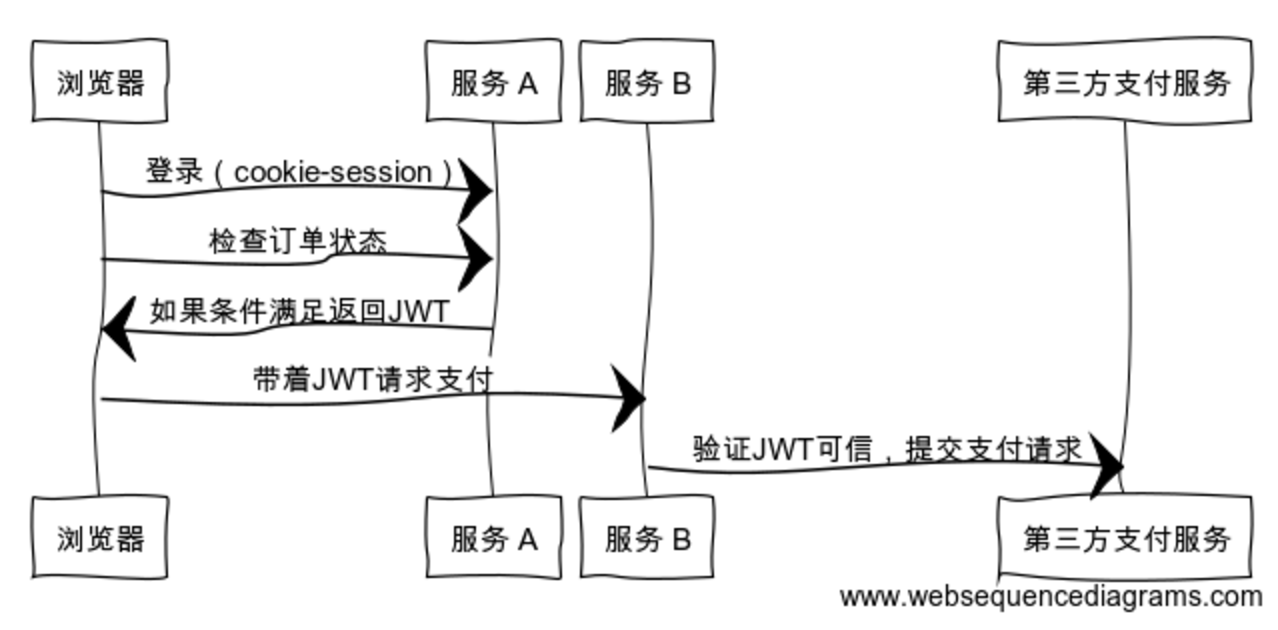
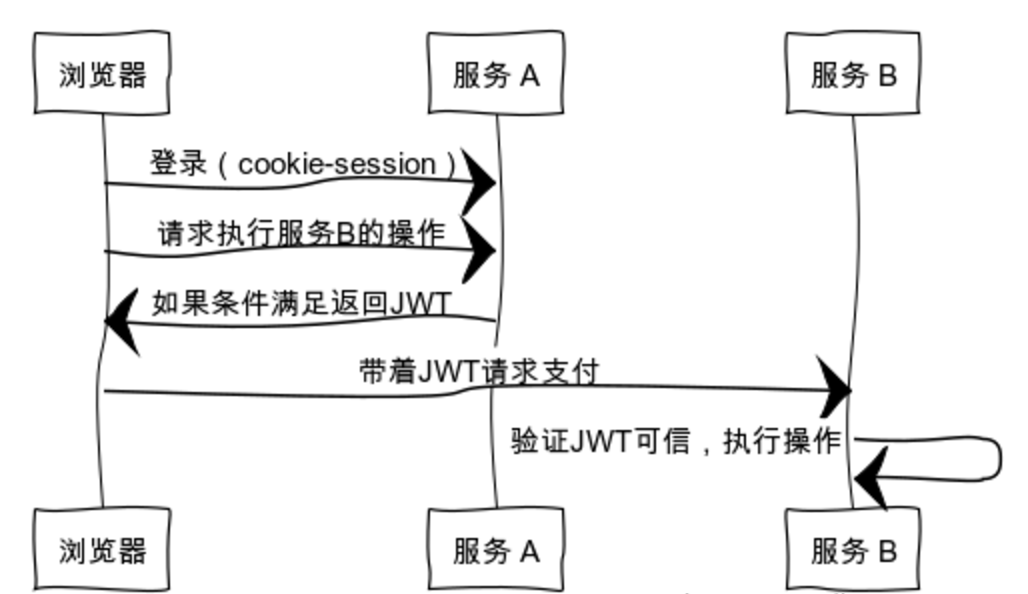
refactor JWT

Changed region(s): [[0.0, 0.0303, 0.9961, 1.0]]

diff --git a/_posts/2017-06-10-stoping-using-jwt-for-sessions.md b/_posts/2017-06-10-stoping-using-jwt-for-sessions.md
@@ -71,7 +71,7 @@ Authorization: Bearer eyJhbGci*...<snip>...*yu5CSpyHI
 
 1. **该方案更易于水平扩展**
 
-确实如此，在cookie-session方案中，cookie内仅包含一个session标识符，而诸如用户信息、授权列表等都保存在服务端的session中。如果把session中的认证信息都保存在JWT中，在服务端就没有session存在的必要了。当服务端水平扩展的时候，就不用处理session复制（cookie Replication）/session黏连（Sticky cookie）或是引入外部session存储了。但实际上外部session存储方案已经非常成熟了（比如Redis），在一些Framework的帮助下（比如[spring-cookie](HTTP://docs.spring.io/spring-cookie/docs/current/reference/html5/guides/hazelcast-spring.html)和[hazelcast](https://hazelcast.com/)），session复制也并没有想象中的麻烦。所以除非你的应用访问量非常非常非常(此处省略N个非常）大，使用cookie-session配合外部session存储完全够用了。
+在cookie-session方案中，cookie内仅包含一个session标识符，而诸如用户信息、授权列表等都保存在服务端的session中。如果把session中的认证信息都保存在JWT中，在服务端就没有session存在的必要了。当服务端水平扩展的时候，就不用处理session复制（session replication）/ session黏连（sticky session）或是引入外部session存储了。从这个角度来说，这个优点确实存在，但实际上外部session存储方案已经非常成熟了（比如Redis），在一些Framework的帮助下（比如[spring-session](HTTP://docs.spring.io/spring-session/docs/current/reference/html5/guides/hazelcast-spring.html)和[hazelcast](https://hazelcast.com/)），session复制也并没有想象中的麻烦。所以除非你的应用访问量非常非常非常(此处省略N个非常）大，使用cookie-session配合外部session存储完全够用了。
 
 2. **该方案可防护CSRF攻击**
 
@@ -101,7 +101,7 @@ amount=100.00&routingNumber=1234&account=9876
 
 你被“点击就送”吸引了，当你点了提交按钮时你已经向攻击者的账号转了100元。 现实中的攻击可能更隐蔽，恶意网站的页面可能使用Javascript自动完成提交。尽管恶意网站没有办法盗取你的session cookie（从而假冒你的身份），但恶意网站向bank.example.com发起请求时，你的cookie会被自动发送过去。
 
-因此，有些人认为前端代码将JWT通过HTTP header发送给服务端（而不是通过cookie自动发送）可以有效防护CSRF。在这种方案中，服务端代码在完成认证后，会在HTTP response的header中返回JWT，前端代码将该JWT存放到Local Storage里待用，或是服务端直接在cookie中保存HttpOnly=false（否则前端Javascript代码无权从cookie中获取数据）的JWT。在向服务端发起请求时，用Javascript取出JWT，再通过header发送回服务端通过认证。由于恶意网站的代码无法获取bank.example.com的cookie/Local Storage中的JWT，这种方式确实能防护CSRF，但将JWT保存在cookie/Local Storage中可能会给另一种攻击可乘之机，我们一会详细讨论它：跨站脚本攻击——XSS。
+因此，有些人认为前端代码将JWT通过HTTP header发送给服务端（而不是通过cookie自动发送）可以有效防护CSRF。在这种方案中，服务端代码在完成认证后，会在HTTP response的header中返回JWT，前端代码将该JWT存放到Local Storage里待用，或是服务端直接在cookie中保存HttpOnly=false的JWT。在向服务端发起请求时，用Javascript取出JWT（否则前端Javascript代码无权从cookie中获取数据），再通过header发送回服务端通过认证。由于恶意网站的代码无法获取bank.example.com的cookie/Local Storage中的JWT，这种方式确实能防护CSRF，但将JWT保存在cookie/Local Storage中可能会给另一种攻击可乘之机，我们一会详细讨论它：跨站脚本攻击——XSS。
 
 3. **该方案更安全**
 
@@ -136,15 +136,28 @@ c) 考虑到cookie的空间限制（大约4k左右），在JWT中尽可能只放
 
 ### 那究竟JWT可以用来做什么
 
-事实上，JWT更适合一次性操作的认证:
+
+我的同事Weinan Li的做过一个形象的解释：
+
+> JWT（其实还有SAML）最适合的应用场景就是“开票”，或者”签字“。
+>
+> 在有纸化办公时代，多部门，多组织之间的协同工作往往会需要拿着A部门领导的“签字”或者“盖章”去B部门“使用”或者“访问”对应的资源，其实这种“领导签字／盖章”就是JWT，都是一种由具有一定权力的实体“签发”并“授权”的“票据”。一般的，这种票据具有可验证性（领导签名／盖章可以被验证，且难于模仿），不可篡改性（涂改过的文件不被接受，除非在涂改处再次签字确认）；并且这种票据一般都是“一次性”使用的，在访问到对应的资源后，该票据一般会被资源持有方收回留底，用于后续的审计，追溯等用途。
+
+> 举两个栗子。
+> 1. 员工李雷需要请假一天，于是填写请假申请单，李雷再获得其主管部门领导签字后，将请假单交给HR部门韩梅梅，韩梅梅确认领导签字无误后，将请假单收回，并在公司考勤表中做相应记录。
+> 2. 员工李雷和韩梅梅因工外出需要使用公司汽车一天，于是填写用车申请单，签字后李雷将申请单交给车队司机老王，乘坐老王驾驶的车辆外出办事，同时老王将用车申请单收回并存档。
+
+> 在以上的两个栗子中，”请假申请单“和”用车申请单“就是JWT中的payload，领导签字就是base64后的数字签名，领导是issuer，“HR部门的韩梅梅”和“司机老王”即为JWT的audience，audience需要验证领导签名是否合法，验证合法后根据payload中请求的资源给予相应的权限，同时将JWT收回。
+
+放到系统集成的场景中，JWT更适合一次性操作的认证:
 
 > 服务B你好, 服务A告诉我，我可以操作<JWT内容>, 这是我的凭证（即JWT）
 
-现在回想起来，我以前参与过的一个项目就有类似的场景，我们有两个团队正在将一个遗留预订系统的支付功能拆分为一个单独的服务，支付服务的目标是提供一个API，可以为一笔订单发起一次付款。在验收规格中有一条是只有订单进入“可付款”状态时，才能允许用户付款，而支付服务并没有足够的数据来验证发起支付的订单是否符合前置条件。当时的解决方案是由遗留预订系统原封不动的包装了支付服务的API，因为预订系统有足够的上下文来判断是否可以发起支付。现在回想起来真是一个糟糕的决定，因为任何对支付服务API的修改，都需要对遗留订单系统上再修改一遍，将服务拆分的收益抵消了大半。如果当时知道有JWT这项技术，可以考虑由遗留预订系统（服务A）在满足订单支付条件时，颁发一个过期时间很短的JWT给前端Web应用，前端Web应用也不用保存该JWT，直接将JWT放到Http header中向支付服务（服务B）的API发起请求，支付服务验证该JWT的签名即可以完成认证（证明遗留预订系统已经认可了订单状态可支付）。
+在这里，服务A负责认证用户身份（相当于上例中的领导），并颁布一个很短过期时间的JWT给浏览器（相当于上例中请假的员工），浏览器在向服务B的请求中带上该JWT，则服务B（相当于上例中的HR员工）可以通过验证该JWT来判断用户是否有权执行该操作。这样，服务B就成为一个安全的无状态的服务了。
 
 ![header](/images/stop-using-jwt-for-sessions/otg.png)
 
-> 遗留预订系统仍然使用传统的cookie-session来管理用户session，而新的支付服务则是无状态的，通过JWT来鉴定用户以及是否有权限支付
+
 
 ### 总结
 
